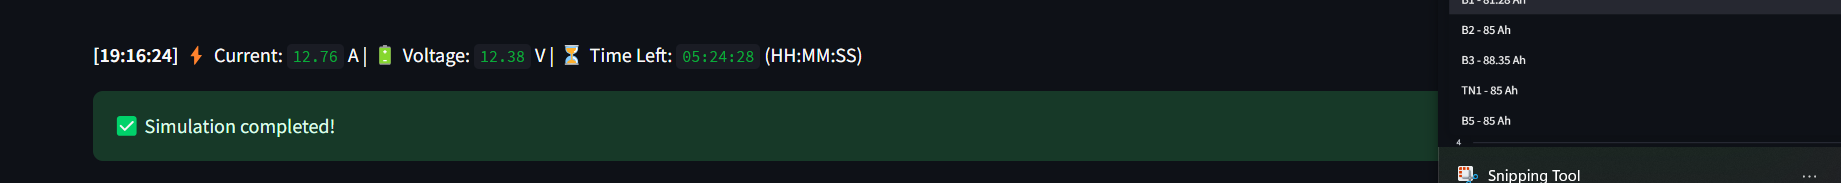
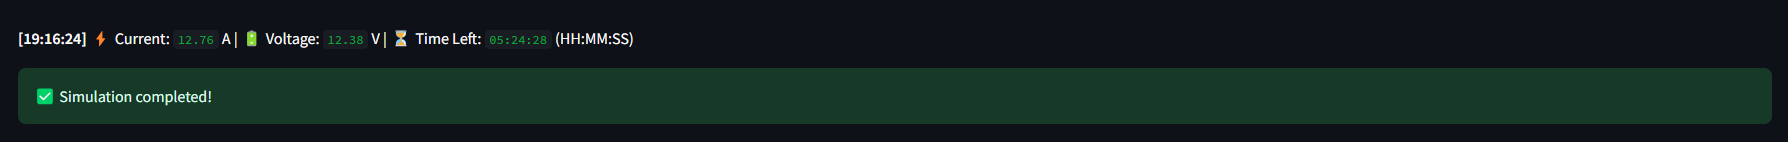
added images

diff --git a/README.MD b/README.MD
@@ -62,7 +62,7 @@ BATTEY_GAUGE/
 ![Graph](images/Graph.png)
 
 ### 🔍 Detail View
-![Detail](images/detail.png)
+![Detail](images/Detail.png)
 
 ---
 
